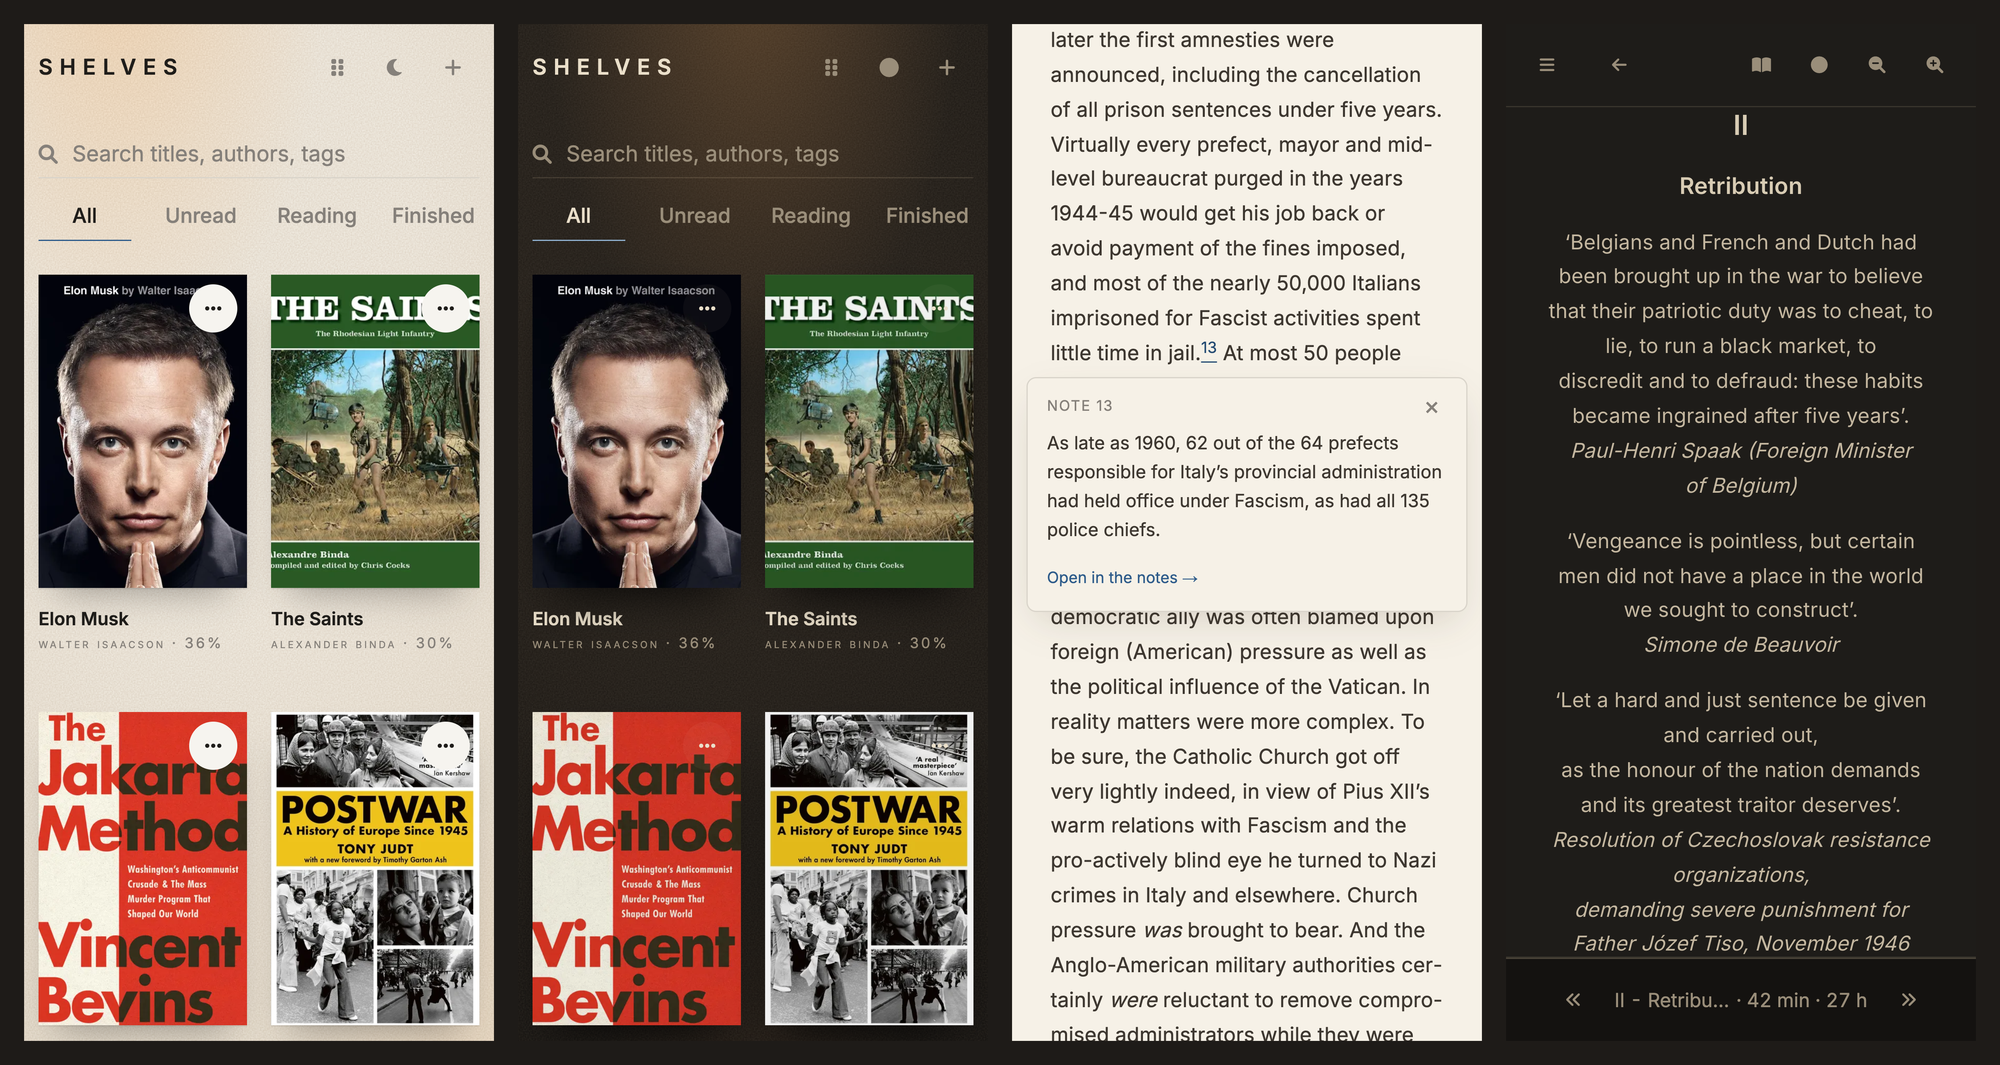
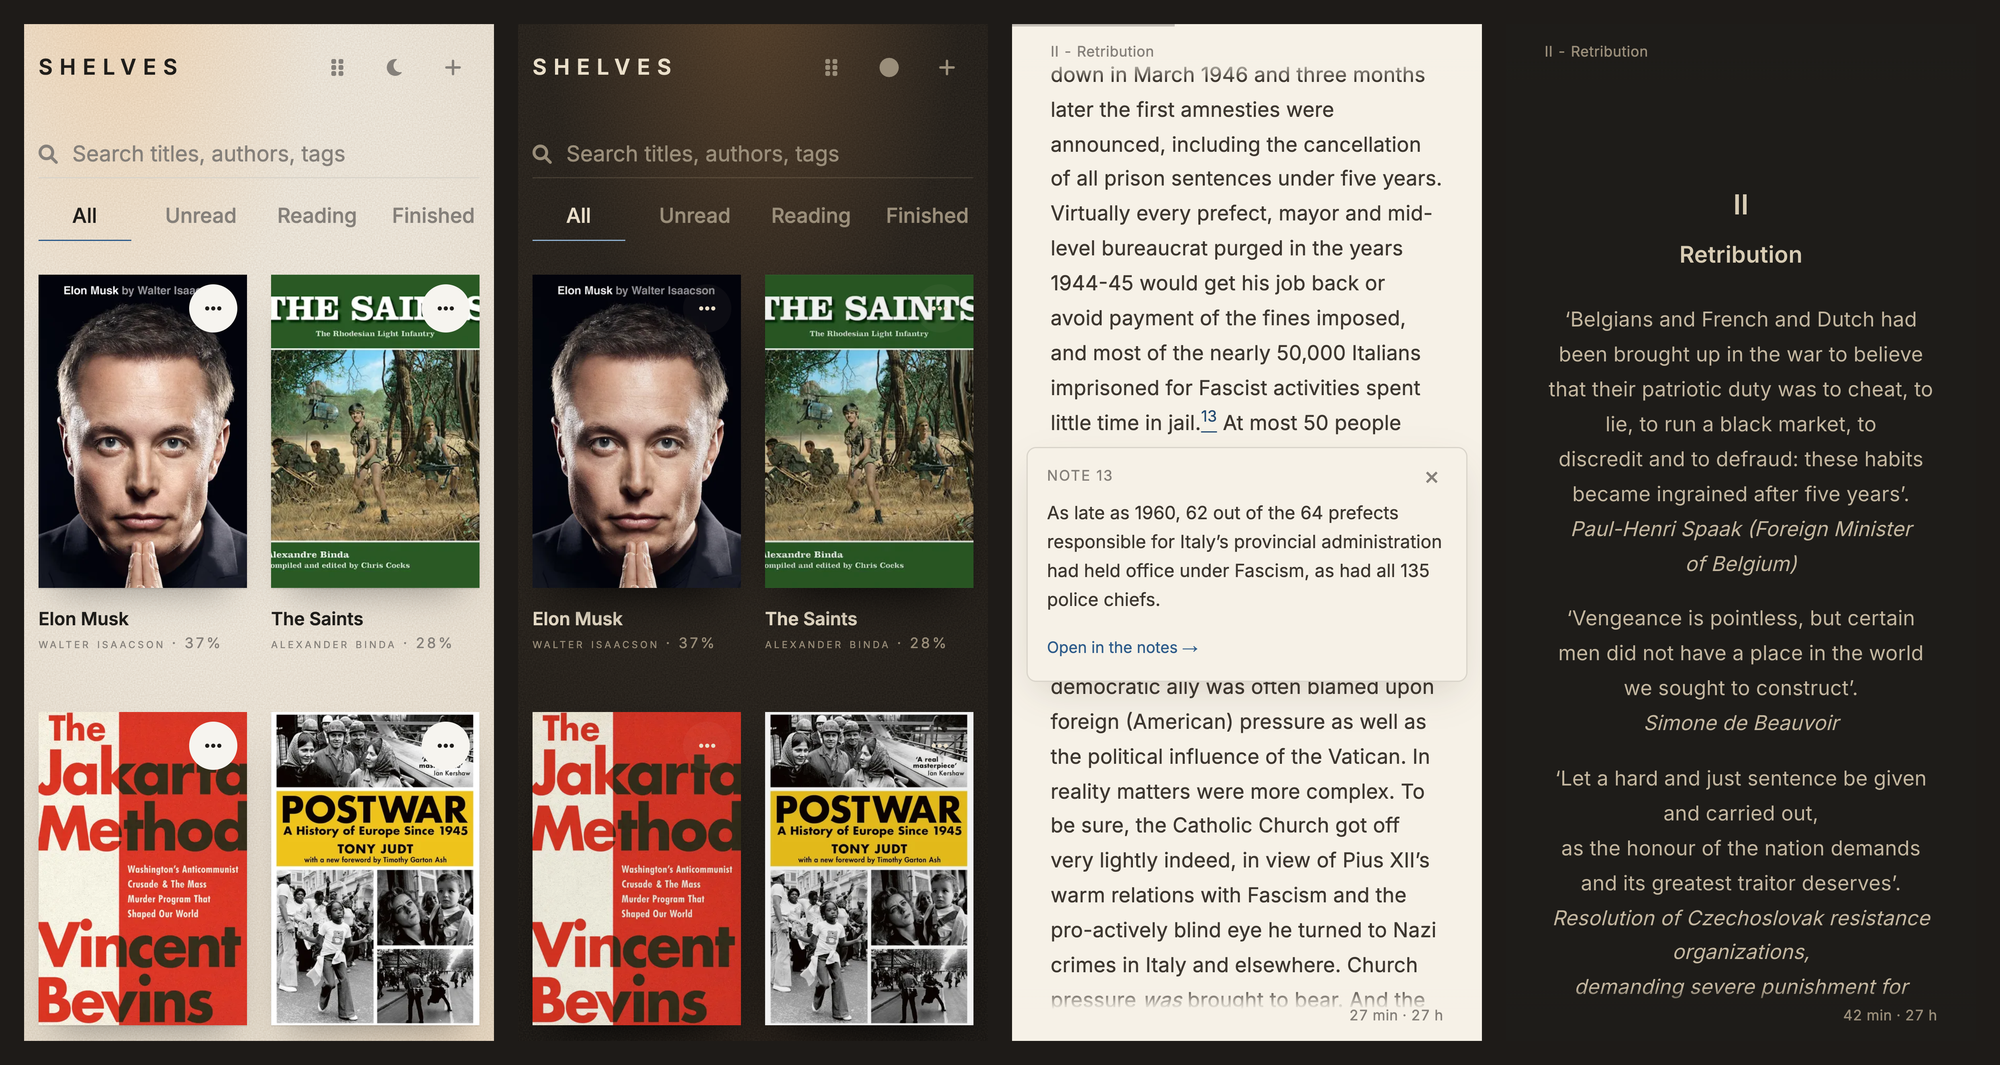
small/readme: the new reader, with fresh screenshots

diff --git a/README.md b/README.md
@@ -21,17 +21,21 @@ A self-hosted EPUB library and reader. It runs on its own or behind the home sta
 
 ### Reader
 
+- **No toolbars while you read.** The chapter title and time left sit in the page margins, like a book's running head. The top bar appears when you move the pointer to the top edge or tap the middle of the page.
 - **Layout.**
   - Flat page colour with softened contrast: about 10:1 by day and 8.6:1 at night.
-  - Lines of 70–85 characters, 1.7 line spacing, hyphenation.
-  - Continuous scroll, or pages with two-page spreads on wide screens.
-- **Time left.** The status bar shows the minutes left in the chapter and in the book, estimated from your own reading speed on that device.
+  - Continuous scroll, with a link on to the next chapter at the end of each; or pages, as two-page spreads of about 60 characters a line on wide screens.
+  - Hyphenation, a blank line between paragraphs, extra space at chapter openings.
+- **Reading settings (Aa).** Text size, line spacing, column width, theme (Day, Sepia, Night, Black) and layout, remembered per device.
+- **Time left.** Minutes left in the chapter and the book, estimated from your own reading speed on that device.
 - **Footnotes in place.** A note opens in a pop-up beside its marker. Any other jump inside the book offers **↩ Back to where you were**.
 - **Book styling.** Each book keeps its own centred titles, italics, small caps and poem indents. Its fonts, colours and spacing are replaced with the reader's.
 - **Ask and Explain.** Select text to ask a question about it, or to get a definition, translation or short explanation in context. This uses Claude and needs `ANTHROPIC_API_KEY`.
-- **Your place everywhere.** Progress is saved as you read and synced across devices when you're signed in.
+- **Your place everywhere.** Progress is saved as you read and synced across devices when you're signed in; on opening, the paragraph you stopped at is briefly marked. The screen stays awake while a book is open.
 
 ![The reader, with a footnote open](images/reader-2026-10.png)
+
+![Pages as a two-page spread, in Sepia, with the reading settings open](images/reader-pages-2026-10.png)
 
 ### Phones and offline
 
